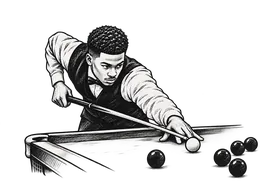
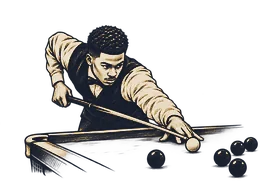
Add reviews section, redesign footer, tidy illustrations (#2)
* Add reviews section, redesign footer, remove arrow from hero photo

- Reviews: new "What Our Guests Say" section rendered from a REVIEWS
  list in the page script, ending with a "Leave a Review" button that
  opens the hotel on Google Maps. With no reviews yet it shows only a
  short invitation and the button.
- Footer: dark background; brand block with logo, tagline and a
  "Book on WhatsApp" button; Explore and Contact columns without the
  duplicated links; address added; socials moved to the bottom bar.
- Hero photo: paint out the chevron that was baked into the image.

Claude-Session: https://claude.ai/code/session_018qRqNghKC4rMbzWmbNXyfX

* Tidy the welcome-section bear illustrations

- Erase the stray dash baked into welcome-1.webp and trim the empty
  transparent margins from both drawings.
- Show both bears at the same height on a cream panel; flex-grow is set
  from each drawing's aspect ratio so they stay matched at every width.
- Remove the horizontal scroll on tablet/mobile (visible scrollbar).
- Replace the misleading "room interior"/"lounge" alt text with
  descriptions of the illustrations.

Claude-Session: https://claude.ai/code/session_018qRqNghKC4rMbzWmbNXyfX

* Recolour amenity drawings to match the bear illustrations

Map the black-and-white sketches onto the bears' palette (navy ink,
gold mid-tones, cream highlights) so they sit on the cream amenity
cards instead of reading as heavy black blocks.
[…]

diff --git a/index.html b/index.html
@@ -133,10 +133,10 @@
         </div>
       </div>
     </div>
-    <div class="welcome__media" role="group" aria-label="Larraby Hotel Epe interior photos">
+    <div class="welcome__media" role="group" aria-label="Larraby Hotel mascots">
       <!-- SEO: descriptive alt text, lazy loading on non-hero images -->
-      <img class="welcome__img" src="images/welcome.webp" alt="Comfortable room interior at Larraby Hotel, Epe Lagos" loading="lazy"/>
-      <img class="welcome__img welcome__img--alt" src="images/welcome-1.webp" alt="Larraby Hotel lounge and relaxation area in Epe" loading="lazy"/>
+      <img class="welcome__img" src="images/welcome.webp" alt="Illustration of a smiling bear in a linen suit raising a glass — Larraby Hotel mascot" width="889" height="1179" loading="lazy"/>
+      <img class="welcome__img welcome__img--alt" src="images/welcome-1.webp" alt="Illustration of a cheerful bear in a robe holding a cocktail — Larraby Hotel mascot" width="566" height="812" loading="lazy"/>
     </div>
   </div>
 </section>
@@ -412,6 +412,20 @@
   </div>
 </section>
 
+<!-- REVIEWS -->
+<section class="reviews" id="reviews">
+  <div class="section-accent"></div>
+  <h2 data-reveal>What Our Guests Say</h2>
+  <p class="sub" data-reveal data-delay="1">Real words from people who have stayed, eaten and unwound with us in Epe.</p>
+  <!-- Filled from the REVIEWS list in the script at the bottom of this page -->
+  <div class="reviews__grid" id="reviews-grid"></div>
+  <p class="reviews__empty" id="reviews-empty" hidden>Stayed with us recently? We&rsquo;d love to hear how it went.</p>
+  <a class="btn-review" id="leave-review" href="#" target="_blank" rel="noopener" data-reveal>
+    <svg width="18" height="18" viewBox="0 0 24 24" fill="none" stroke="currentColor" stroke-width="2" stroke-linecap="round" stroke-linejoin="round"><path d="M12 2l3.09 6.26L22 9.27l-5 4.87 1.18 6.88L12 17.77l-6.18 3.25L7 14.14 2 9.27l6.91-1.01L12 2z"/></svg>
+    Leave a Review
+  </a>
+</section>
+
 <!-- CONTACT BANNER -->
 <section class="contact-banner">
   <div class="contact-banner__bg"></div>
@@ -503,40 +517,45 @@
 
 <!-- FOOTER -->
 <footer>
-  <div class="footer__wordmark">Larraby Hotel</div>
   <div class="footer__body">
-    <div class="footer-col">
-      <a href="#rooms">Rooms &amp; Suites</a>
-      <a href="#about">Experience</a>
-      <a href="#amenities">Facilities</a>
-      <a href="#glimpse">Gallery</a>
-      <a href="#contact">Location</a>
-      <a href="#rooms">Book a Room</a>
-    </div>
-    <div class="footer-col">
-      <!-- SEO: phone and email are now proper <a> links instead of <span> -->
-      <a href="tel:+2348149169698">+2348149169698</a>
-      <a href="mailto:larabbyhotel@gmail.com">larabbyhotel@gmail.com</a>
-      <a href="#rooms">Rooms</a>
-      <a href="#about">Experience</a>
-      <a href="#amenities">Facilities</a>
-      <a href="#contact">Contact</a>
-    </div>
-    <div class="footer-col">
+    <div class="footer__brand">
+      <a href="#home" class="footer__logo">
+        <img src="images/logo.webp" alt="" width="40" height="40" loading="lazy"/>
+        <span class="footer__wordmark">Larraby Hotel</span>
+      </a>
+      <p class="footer__tagline">Good times and warm hospitality in Odomola, Epe, Lagos.</p>
       <a href="https://wa.me/2348149169698" target="_blank" rel="noopener" class="footer__wa">
         <svg width="18" height="18" viewBox="0 0 24 24" fill="currentColor"><path d="M17.472 14.382c-.297-.149-1.758-.867-2.03-.967-.273-.099-.471-.148-.67.15-.197.297-.767.966-.94 1.164-.173.199-.347.223-.644.075-.297-.15-1.255-.463-2.39-1.475-.883-.788-1.48-1.761-1.653-2.059-.173-.297-.018-.458.13-.606.134-.133.298-.347.446-.52.149-.174.198-.298.298-.497.099-.198.05-.371-.025-.52-.075-.149-.669-1.612-.916-2.207-.242-.579-.487-.5-.669-.51-.173-.008-.371-.01-.57-.01-.198 0-.52.074-.792.372-.272.297-1.04 1.016-1.04 2.479 0 1.462 1.065 2.875 1.213 3.074.149.198 2.096 3.2 5.077 4.487.709.306 1.262.489 1.694.625.712.227 1.36.195 1.871.118.571-.085 1.758-.719 2.006-1.413.248-.694.248-1.289.173-1.413-.074-.124-.272-.198-.57-.347m-5.421 7.403h-.004a9.87 9.87 0 0 1-5.031-1.378l-.361-.214-3.741.982.998-3.648-.235-.374a9.86 9.86 0 0 1-1.51-5.26c.001-5.45 4.436-9.884 9.888-9.884 2.64 0 5.122 1.03 6.988 2.898a9.825 9.825 0 0 1 2.893 6.994c-.003 5.45-4.437 9.884-9.885 9.884m8.413-18.297A11.815 11.815 0 0 0 12.05 0C5.495 0 .16 5.335.157 11.892c0 2.096.547 4.142 1.588 5.945L.057 24l6.305-1.654a11.882 11.882 0 0 0 5.683 1.448h.005c6.554 0 11.89-5.335 11.893-11.893a11.821 11.821 0 0 0-3.48-8.413Z"/></svg>
-        WhatsApp
+        Book on WhatsApp
       </a>
+    </div>
+    <nav class="footer-col" aria-label="Footer">
+      <h3 class="footer__heading">Explore</h3>
+      <a href="#rooms">Rooms &amp; Suites</a>
+      <a href="#amenities">Facilities</a>
+      <a href="#glimpse">Gallery</a>
+      <a href="#reviews">Reviews</a>
+      <a href="#location">Location</a>
+    </nav>
+    <div class="footer-col">
+      <h3 class="footer__heading">Contact</h3>
+      <!-- SEO: phone and email are proper <a> links -->
+      <a href="tel:+2349030484636">0903 048 4636</a>
+      <a href="https://wa.me/2348149169698" target="_blank" rel="noopener">0814 916 9698 (WhatsApp)</a>
+      <a href="mailto:larabbyhotel@gmail.com">larabbyhotel@gmail.com</a>
+      <span>No 5, Alhaji Sherifat Street, Poka, Epe, Lagos</span>
     </div>
   </div>
   <div class="footer__bottom">
-    <a href="#" class="social-link" aria-label="Larraby Hotel on Instagram">
-      <svg width="22" height="22" viewBox="0 0 24 24" fill="none" stroke="currentColor" stroke-width="1.5" stroke-linecap="round" stroke-linejoin="round"><rect width="20" height="20" x="2" y="2" rx="5" ry="5"/><path d="M16 11.37A4 4 0 1 1 12.63 8 4 4 0 0 1 16 11.37z"/><line x1="17.5" x2="17.51" y1="6.5" y2="6.5"/></svg>
-    </a>
-    <a href="#" class="social-link" aria-label="Larraby Hotel on TikTok">
-      <svg width="22" height="22" viewBox="0 0 24 24" fill="currentColor"><path d="M19.59 6.69a4.83 4.83 0 0 1-3.77-4.25V2h-3.45v13.67a2.89 2.89 0 0 1-2.88 2.5 2.89 2.89 0 0 1-2.89-2.89 2.89 2.89 0 0 1 2.89-2.89c.28 0 .54.04.79.1V9.01a6.33 6.33 0 0 0-.79-.05 6.34 6.34 0 0 0-6.34 6.34 6.34 6.34 0 0 0 6.34 6.34 6.34 6.34 0 0 0 6.33-6.34V8.69a8.27 8.27 0 0 0 4.83 1.54V6.78a4.85 4.85 0 0 1-1.06-.09z"/></svg>
-    </a>
     <span class="footer__copy">&copy; 2026 Larraby Hotel International. All rights reserved.</span>
+    <div class="footer__social">
+      <a href="#" class="social-link" aria-label="Larraby Hotel on Instagram">
+        <svg width="22" height="22" viewBox="0 0 24 24" fill="none" stroke="currentColor" stroke-width="1.5" stroke-linecap="round" stroke-linejoin="round"><rect width="20" height="20" x="2" y="2" rx="5" ry="5"/><path d="M16 11.37A4 4 0 1 1 12.63 8 4 4 0 0 1 16 11.37z"/><line x1="17.5" x2="17.51" y1="6.5" y2="6.5"/></svg>
+      </a>
+      <a href="#" class="social-link" aria-label="Larraby Hotel on TikTok">
+        <svg width="22" height="22" viewBox="0 0 24 24" fill="currentColor"><path d="M19.59 6.69a4.83 4.83 0 0 1-3.77-4.25V2h-3.45v13.67a2.89 2.89 0 0 1-2.88 2.5 2.89 2.89 0 0 1-2.89-2.89 2.89 2.89 0 0 1 2.89-2.89c.28 0 .54.04.79.1V9.01a6.33 6.33 0 0 0-.79-.05 6.34 6.34 0 0 0-6.34 6.34 6.34 6.34 0 0 0 6.34 6.34 6.34 6.34 0 0 0 6.33-6.34V8.69a8.27 8.27 0 0 0 4.83 1.54V6.78a4.85 4.85 0 0 1-1.06-.09z"/></svg>
+      </a>
+    </div>
   </div>
 </footer>
 
@@ -873,6 +892,35 @@
       hamburger.setAttribute('aria-label', 'Open menu');
     });
   });
+
+  // ── Reviews
+  // Add real guest reviews here (e.g. copied from Google or WhatsApp, with the
+  // guest's permission). Each entry: { name, text, rating (1-5), source }.
+  // While the list is empty the section only shows the "Leave a Review" button.
+  const REVIEWS = [
+    // { name: 'Guest name', text: 'What they said…', rating: 5, source: 'Google' },
+  ];
+  // Where "Leave a Review" goes. For a direct "write a review" box, replace with
+  // https://search.google.com/local/writereview?placeid=YOUR_PLACE_ID
+  // (the Place ID is shown in the hotel's Google Business Profile).
+  const REVIEW_URL = 'https://www.google.com/maps/search/?api=1&query=Larraby+Hotel+International+Epe+Lagos';
+
+  document.getElementById('leave-review').href = REVIEW_URL;
+  const reviewsGrid = document.getElementById('reviews-grid');
+  const esc = (t) => String(t).replace(/[&<>"']/g, c => ({'&':'&amp;','<':'&lt;','>':'&gt;','"':'&quot;',"'":'&#39;'}[c]));
+  if (REVIEWS.length) {
+    reviewsGrid.innerHTML = REVIEWS.map((r, i) => {
+      const n = Math.max(1, Math.min(5, Math.round(r.rating || 5)));
+      return `<figure class="review-card" data-reveal data-delay="${i % 3 + 1}">
+        <div class="review-card__stars" aria-label="${n} out of 5 stars">${'★'.repeat(n)}<span>${'★'.repeat(5 - n)}</span></div>
+        <blockquote>${esc(r.text)}</blockquote>
+        <figcaption><strong>${esc(r.name)}</strong>${r.source ? ` · ${esc(r.source)}` : ''}</figcaption>
+      </figure>`;
+    }).join('');
+  } else {
+    reviewsGrid.hidden = true;
+    document.getElementById('reviews-empty').hidden = false;
+  }
 
   // ── Scroll reveal
   const revealObserver = new IntersectionObserver((entries) => {

diff --git a/larraby.css b/larraby.css
@@ -61,19 +61,13 @@
     .welcome{background:var(--bg-light);padding:100px 64px 92px;}
     .welcome__heading{font-family:'Playfair Display',serif;font-size:clamp(28px,3.5vw,48px);font-weight:700;line-height:1.18;margin-bottom:24px}
     .welcome__body{display:grid;grid-template-columns:5fr 6fr;gap:72px;align-items:start;}
-    .welcome__media{display:flex;gap:16px;align-items:flex-start;flex-direction:row;flex-wrap:nowrap}
-    .welcome__img{flex:0 0 50%;max-width:50%;height:520px;max-height:520px;border-radius:20px;display:block;object-fit:cover;object-position:center center;background-color:var(--bg-light);transition:transform .35s ease}
-    .welcome__img--alt{border-radius:20px}
-    @media(min-width:1100px){
-      .welcome__img{object-fit:contain;height:520px;max-height:520px;object-position:center 30%}
-    }
+    .welcome__media{display:flex;align-items:flex-end;justify-content:center;gap:clamp(12px,3vw,36px);background:var(--gold-light);border:1px solid rgba(184,145,47,.18);border-radius:28px;padding:44px clamp(20px,4vw,48px) 0;overflow:hidden;}
+    /* flex-grow matches each drawing's aspect ratio so both bears render at the same height */
+    .welcome__img{display:block;min-width:0;height:auto;flex:754 1 0;}
+    .welcome__img--alt{flex:697 1 0;}
     .welcome__right{position:relative;display:flex;flex-direction:column;align-items:flex-start;gap:20px}
-    @media(max-width:1024px){
-      .welcome__media{flex-direction:row;overflow-x:auto}
-      .welcome__img{object-fit:contain;height:320px;max-height:320px;border-radius:20px;object-position:center;background-color:var(--bg-light);flex:0 0 50%;min-width:50%}
-    }
     @media(max-width:600px){
-      .welcome__img{height:240px;max-height:240px}
+      .welcome__media{border-radius:22px;padding-top:28px;}
     }
     
     .welcome__text{font-size:15px;line-height:1.9;color:var(--body);margin-bottom:32px;max-width:56ch;}
@@ -226,18 +220,36 @@
     .location__photo img{width:100%;height:100%;object-fit:cover;display:block;}
 
     /* FOOTER */
-    footer{background:var(--bg-light);padding:72px 64px 0;}
-    .footer__wordmark{font-family:'Playfair Display',serif;font-size:clamp(36px,5vw,58px);font-weight:700;margin-bottom:48px;}
-    .footer__body{display:grid;grid-template-columns:1fr 1fr 1fr;gap:40px;padding-bottom:48px;align-items:start;}
+    footer{background:#111;color:#fff;padding:72px 64px 0;}
+    .footer__body{display:grid;grid-template-columns:2fr 1fr 1.4fr;gap:48px;padding-bottom:48px;align-items:start;}
+    .footer__logo{display:inline-flex;align-items:center;gap:12px;text-decoration:none;color:#fff;margin-bottom:14px;}
+    .footer__logo img{width:40px;height:40px;border-radius:10px;object-fit:cover;}
+    .footer__wordmark{font-family:'Playfair Display',serif;font-size:28px;font-weight:700;}
+    .footer__tagline{font-size:14px;color:rgba(255,255,255,.62);line-height:1.7;max-width:320px;margin-bottom:22px;}
+    .footer__heading{font-size:12px;font-weight:700;letter-spacing:1.5px;text-transform:uppercase;color:var(--gold);margin-bottom:4px;}
     .footer-col{display:flex;flex-direction:column;gap:13px;}
-    .footer-col a,.footer-col span{font-size:14px;color:var(--muted);text-decoration:none;transition:color .2s;}
-    .footer-col a:hover{color:var(--dark);}
-    .footer__wa{display:inline-flex;align-items:center;gap:8px;background:#3c3c3c;color:#fff;padding:13px 24px;border-radius:999px;font-size:14px;font-weight:500;text-decoration:none;transition:background .2s;width:fit-content;}
-    .footer__wa:hover{background:#222;}
-    .footer__bottom{border-top:1px solid rgba(0,0,0,.1);padding:24px 0;display:flex;align-items:center;justify-content:center;gap:28px;flex-wrap:wrap;}
-    .social-link{color:var(--dark);transition:opacity .2s;display:flex;}
-    .social-link:hover{opacity:.5;}
-    .footer__copy{font-size:12px;color:var(--muted);}
+    .footer-col a,.footer-col span{font-size:14px;color:rgba(255,255,255,.7);text-decoration:none;transition:color .2s;line-height:1.5;}
+    .footer-col a:hover{color:#fff;}
+    .footer__wa{display:inline-flex;align-items:center;gap:8px;background:var(--gold);color:#fff;padding:13px 24px;border-radius:999px;font-size:14px;font-weight:600;text-decoration:none;transition:background .2s;width:fit-content;}
+    .footer__wa:hover{background:#9c7a25;}
+    .footer__bottom{border-top:1px solid rgba(255,255,255,.12);padding:24px 0;display:flex;align-items:center;justify-content:space-between;gap:20px;flex-wrap:wrap;}
+    .footer__social{display:flex;gap:18px;}
+    .social-link{color:rgba(255,255,255,.8);transition:color .2s;display:flex;}
+    .social-link:hover{color:var(--gold);}
+    .footer__copy{font-size:12px;color:rgba(255,255,255,.5);}
+    .reviews{background:var(--white);border-top:1px solid rgba(0,0,0,.06);padding:92px 64px;text-align:center;}
+    .reviews h2{font-family:'Playfair Display',serif;font-size:clamp(32px,4.5vw,54px);font-weight:700;margin-bottom:14px;}
+    .reviews .sub{font-size:14.5px;color:var(--body);line-height:1.8;margin-bottom:48px;}
+    .reviews__grid{display:grid;grid-template-columns:repeat(auto-fit,minmax(280px,1fr));gap:20px;margin-bottom:40px;text-align:left;}
+    .review-card{background:var(--gold-light);border:1px solid rgba(0,0,0,.06);border-radius:22px;padding:28px;margin:0;display:flex;flex-direction:column;gap:14px;}
+    .review-card__stars{color:var(--gold);font-size:18px;letter-spacing:2px;}
+    .review-card__stars span{color:rgba(0,0,0,.15);}
+    .review-card blockquote{margin:0;font-size:15px;line-height:1.75;color:var(--body);flex:1;}
+    .review-card figcaption{font-size:13px;color:var(--muted);}
+    .review-card figcaption strong{color:var(--dark);font-weight:600;}
+    .reviews__empty{font-size:15px;color:var(--body);margin:-24px 0 28px;}
+    .btn-review{display:inline-flex;align-items:center;gap:10px;background:var(--dark);color:#fff;padding:15px 30px;border-radius:999px;font-size:14px;font-weight:600;text-decoration:none;transition:background .2s,transform .12s;}
+    .btn-review:hover{background:var(--gold);transform:translateY(-2px);}
 
     /* BOOKING MODAL */
     .modal-overlay{position:fixed;inset:0;background:rgba(0,0,0,.55);z-index:9999;display:flex;align-items:center;justify-content:center;padding:16px;opacity:0;pointer-events:none;transition:opacity .25s;}
@@ -296,7 +308,9 @@
       .contact{padding:72px 32px;gap:48px;}
       .location{padding:72px 32px;}
       footer{padding:56px 32px 0;}
-      .footer__body{grid-template-columns:1fr 1fr;gap:28px;}
+      .footer__body{grid-template-columns:1fr 1fr;gap:32px;}
+      .footer__brand{grid-column:1/-1;}
+      .reviews{padding:72px 32px;}
     }
 
     /* ── MOBILE ≤768px ───────────────────────────── */
@@ -317,7 +331,7 @@
       .welcome{padding:64px 20px 52px;}
       .welcome__heading{font-size:clamp(24px,7vw,36px);margin-bottom:24px;}
       .welcome__body{grid-template-columns:1fr;gap:0;}
-      .welcome__img{height:240px;border-radius:12px;}
+      .welcome__media{margin-top:36px;}
       .welcome__right{padding-top:24px;}
       .welcome__text{margin-top:0;font-size:14px;}
 
@@ -366,9 +380,10 @@
       .location__map,.location__photo{height:230px;}
 
       footer{padding:40px 20px 0;}
-      .footer__wordmark{font-size:clamp(26px,8vw,38px);margin-bottom:24px;}
-      .footer__body{grid-template-columns:1fr;gap:22px;}
-      .footer__bottom{gap:12px;flex-direction:column;padding:20px 0;text-align:center;}
+      .footer__wordmark{font-size:24px;}
+      .footer__body{grid-template-columns:1fr;gap:32px;}
+      .footer__bottom{gap:14px;flex-direction:column-reverse;padding:20px 0;text-align:center;}
+      .reviews{padding:60px 20px;}
 
       .modal-card{padding:24px 18px;}
       .modal-room-type{font-size:19px;}
